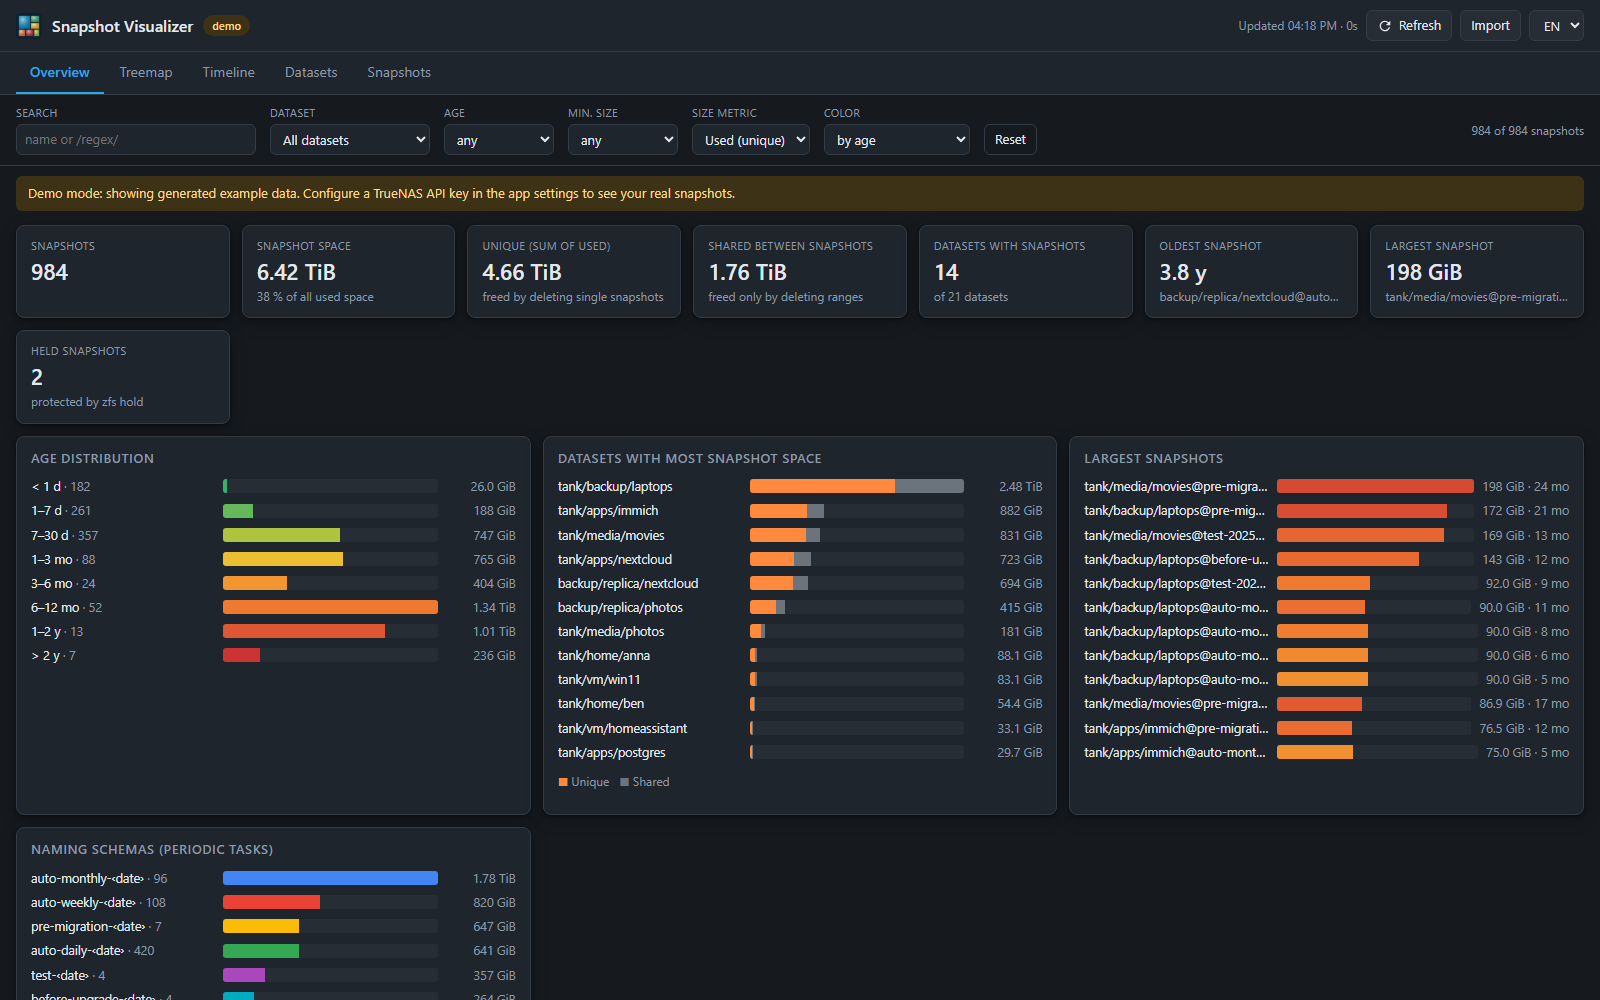
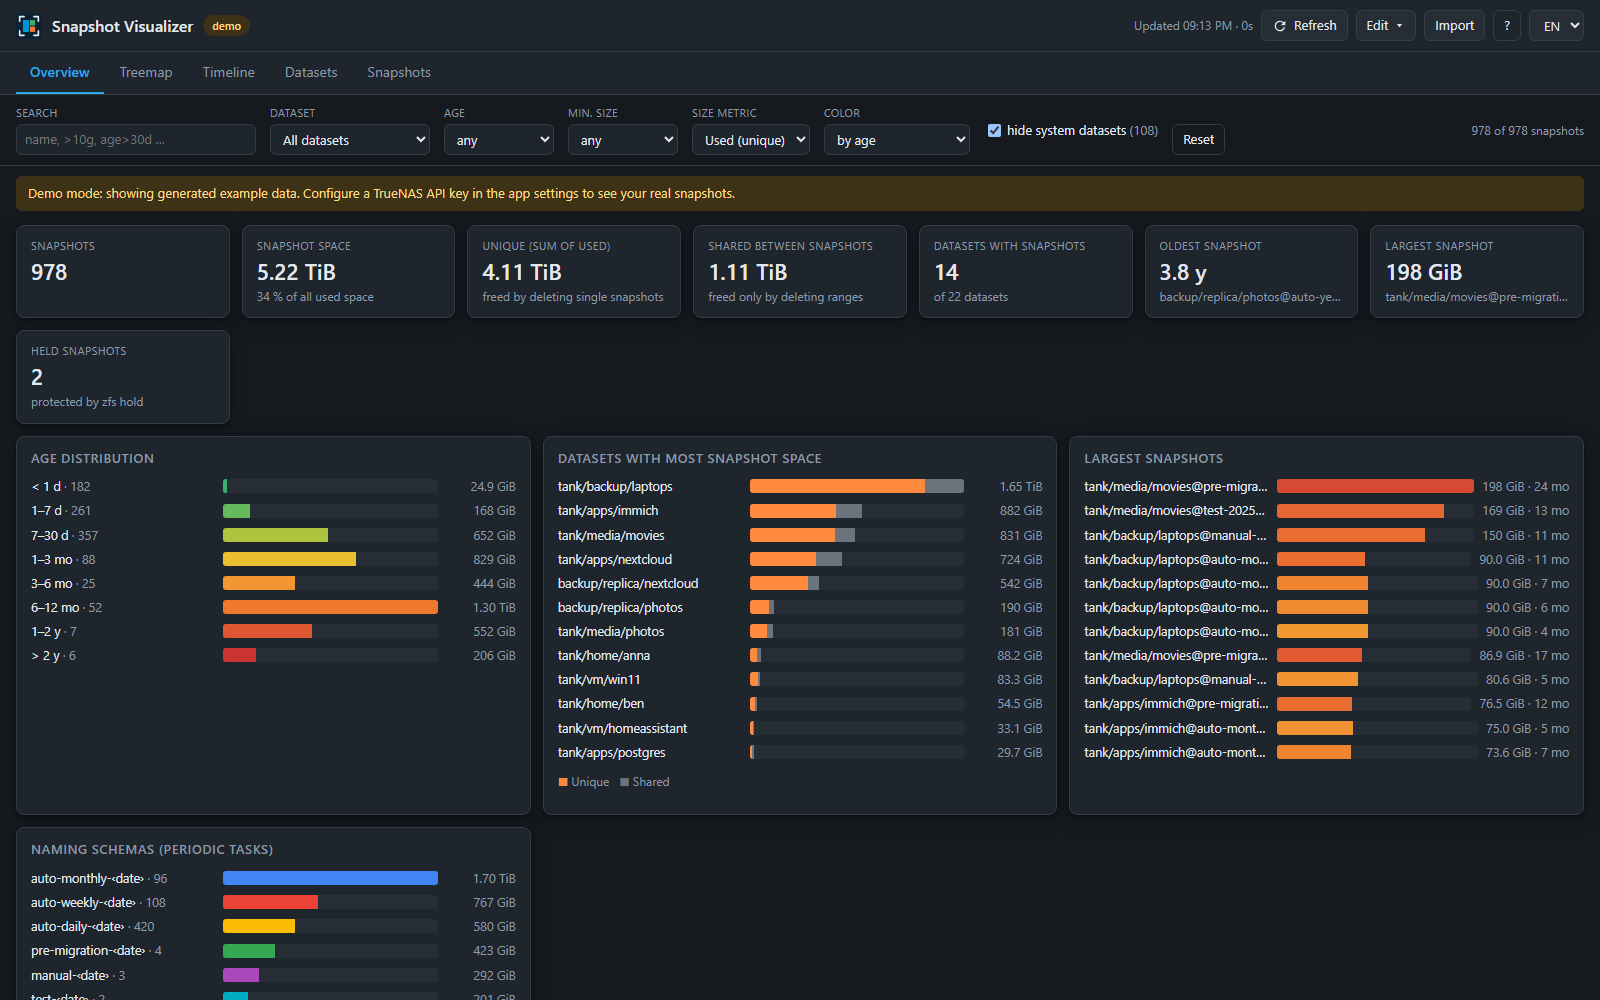
Prepare the truenas/apps pull request
- Catalog ships 1.4.0 (pinned digest); default port 30530 because
  30527-30529 are claimed by open PRs in truenas/apps.
- Fresh screenshots of the current UI for the CDN upload.
- PR text following the app_addition template; the branch is pushed to
  the fork Synecho/apps (add-snapshot-visualizer), the PR is not opened.

diff --git a/truenas-catalog/PULL_REQUEST.md b/truenas-catalog/PULL_REQUEST.md
@@ -1,0 +1,57 @@
+# App Addition
+
+- [x] I have opened an [issue](https://github.com/truenas/apps/issues) to discuss this app addition before submitting this pull request.
+
+Closes #6055
+
+# AI
+
+- [x] Part or All of this PR was generated by an LLM.
+
+## Description
+
+Adds Snapshot Visualizer to the community train.
+
+Snapshot Visualizer shows the ZFS snapshots of the TrueNAS system the way WinDirStat shows files: a cushion treemap by size, a timeline by age, per-dataset statistics (including the space shared between snapshots, `usedbysnapshots` minus the sum of `used`) and a sortable snapshot table. It groups snapshots by naming schema, so it is easy to see which periodic snapshot task holds the most space. Deleting selected snapshots from the web UI is optional and off by default.
+
+## App Information
+
+- **Upstream**: https://github.com/Synecho/truenas-snapshot-visualizer
+- **Documentation**: https://github.com/Synecho/truenas-snapshot-visualizer#readme
+- **App Version**: 1.4.0
+
+## Testing
+
+Tested locally with:
+
+- [x] basic-values.yaml (demo data, plain HTTP, no password)
+- [x] truenas-values.yaml (TrueNAS API with API key, HTTPS, password, deleting enabled)
+
+Both value files render with `apps_render_app` (ghcr.io/truenas/apps_validation), `apps_catalog_hash_generate` reproduces the 2.3.15 library hash and `generate_metadata.py` leaves `app.yaml` unchanged. The rendered compose files run healthy with the pinned image (read-only root filesystem, 568:568, all capabilities dropped). `port_validation.py` reports no duplicates.
+
+## Icons and Screenshots
+
+Please upload the following to the CDN:
+
+- Icon: https://raw.githubusercontent.com/Synecho/truenas-snapshot-visualizer/main/docs/icon.png
+- Screenshot 1: https://raw.githubusercontent.com/Synecho/truenas-snapshot-visualizer/main/docs/screenshots/treemap.png
+- Screenshot 2: https://raw.githubusercontent.com/Synecho/truenas-snapshot-visualizer/main/docs/screenshots/overview.png
+- Screenshot 3: https://raw.githubusercontent.com/Synecho/truenas-snapshot-visualizer/main/docs/screenshots/timeline.png
+- Screenshot 4: https://raw.githubusercontent.com/Synecho/truenas-snapshot-visualizer/main/docs/screenshots/snapshots.png
+
+## Special Notes
+
+- **First-time setup:** the app needs a TrueNAS API key. Recommended: a dedicated user in a group with the *Read-Only Administrator* privilege, then *My API Keys → Add*. Deleting snapshots (optional, *Allow Deleting Snapshots*) additionally needs the `SNAPSHOT_DELETE` role.
+- **How it talks to TrueNAS:** JSON-RPC over `wss://host.docker.internal/api/current` (legacy `/websocket` for 24.10), added via `add_extra_host("host.docker.internal", "host-gateway")`. It calls `pool.snapshot.query` / `pool.dataset.query` with a fallback to `zfs.snapshot.query`, and `pool.snapshot.delete` / `zfs.snapshot.delete` only when deleting is enabled. API keys are never sent over plain `ws://`. No host mounts, no storage.
+- **Web UI:** HTTPS with a self-signed certificate by default (portal scheme follows the *Use HTTPS* option), optional password login. The healthcheck uses `python -m snapviz.healthcheck` because busybox `wget` in the Alpine image has no TLS.
+- **Port:** 30530. 30527–30529 are free on master but already claimed by open PRs (#6047, #6050, #5919).
+- **Image:** `ghcr.io/synecho/truenas-snapshot-visualizer`, SemVer tags, pinned by digest.
+
+## Checklist
+
+- [x] App runs successfully locally
+- [x] Only modified files under /ix-dev/ or /library/
+- [x] README.md included
+- [x] Multiple test scenarios tested
+- [x] questions.yaml has clear descriptions and follows structure of existing apps
+- [ ] All automated CI checks pass

diff --git a/VEROEFFENTLICHEN.md b/VEROEFFENTLICHEN.md
@@ -10,12 +10,13 @@ erreichbar sein.
 |---|---|
 | GitHub-Repo `Synecho/truenas-snapshot-visualizer` | erledigt |
 | Image auf ghcr.io, öffentlich | erledigt (aktuell `1.4.0`) |
-| Catalog auf `app_version: 1.4.0`, Image per Digest gepinnt | erledigt |
+| Catalog auf `app_version: 1.4.0`, Image per Digest gepinnt, Port 30530 | erledigt |
 | Catalog-Template mit dem TrueNAS-Validator gerendert und gestartet | erledigt |
 | GitHub-Release mit Changelog (`changelog_url` muss die Version enthalten) | erledigt (`v1.4.0`, `gh release create` bei jedem neuen Release) |
 | **API-Key-Modus auf echtem TrueNAS getestet** | **offen** – der Store nutzt den API-Key, nicht den Socket |
 | Issue bei truenas/apps eröffnen | erledigt: [truenas/apps#6055](https://github.com/truenas/apps/issues/6055) |
-| PR an truenas/apps stellen | offen – nach Rückmeldung im Issue und dem API-Key-Test |
+| PR vorbereitet: Branch `add-snapshot-visualizer` im Fork [Synecho/apps](https://github.com/Synecho/apps/tree/add-snapshot-visualizer), Text in `truenas-catalog/PULL_REQUEST.md` | erledigt |
+| PR an truenas/apps öffnen | offen – nach Rückmeldung im Issue und dem API-Key-Test |
 
 ### API-Key-Modus vor dem PR testen
 
@@ -47,6 +48,16 @@ Solange die App noch nicht im Store ist, bleibt `version` in `app.yaml` bei `1.0
 bei jeder Änderung am Catalog-Eintrag erhöht werden.
 
 ## Pull Request an truenas/apps
+
+Der PR ist fertig vorbereitet. Öffnen mit:
+
+```bash
+gh pr create --repo truenas/apps --base master --head Synecho:add-snapshot-visualizer --title "Add snapshot-visualizer to community train" --body-file truenas-catalog/PULL_REQUEST.md
+```
+
+Ändert sich vorher etwas am Catalog, den Ordner erneut in den Fork-Branch kopieren, committen und pushen.
+
+Was beim Vorbereiten geprüft wurde und was bei späteren Änderungen wieder zu tun ist:
 
 1. Das Issue [truenas/apps#6055](https://github.com/truenas/apps/issues/6055) ist eröffnet; auf eine
    Rückmeldung der Maintainer warten. Im PR auf das Issue verweisen.
